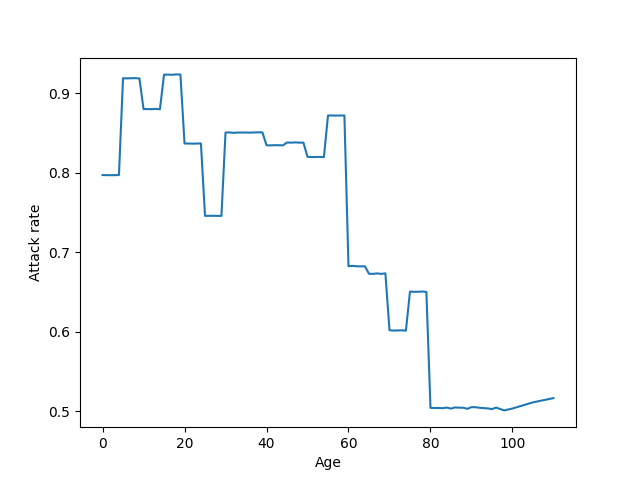
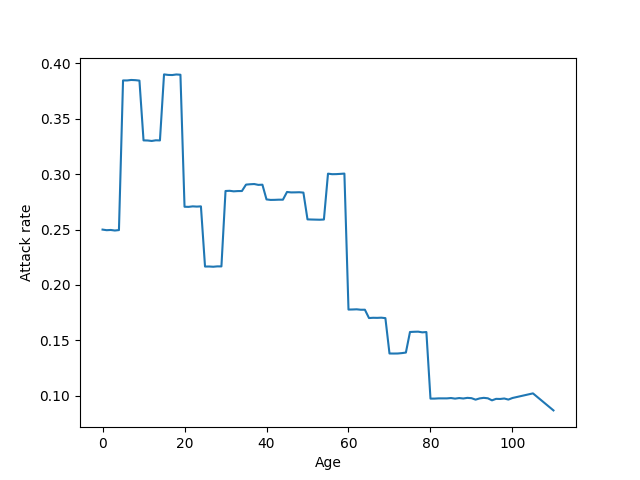
Move and adjust mthematical modeling tutorial

diff --git a/tutorials/mathematical-modeling/code/mathematical_modeling.py b/tutorials/mathematical-modeling/code/mathematical_modeling.py
@@ -1,0 +1,155 @@
+import pandas as pd
+import numpy as np
+import matplotlib.pyplot as plt
+
+
+# ============================
+# Loading the necessary data
+# ============================
+# --- Population distribution by age
+age_structure_fpath = "data/example_age_structure.csv"
+age_distribution_df = pd.read_csv(age_structure_fpath, index_col="age")
+
+# --- Contact matrix in age groups
+contact_matrix_fpath = "data/example_contact_matrix.csv"
+contact_matrix_df = pd.read_csv(
+        contact_matrix_fpath,
+        header=0, index_col=0,
+)
+
+# # Uncomment this line if the matrix has respondent age as column index instead of row index.
+# contact_matrix_df = contact_matrix_df.T
+
+# --- Age groups defined as first age in each group. Must match the contact matrix.
+age_groups = np.array([0, 5, 10, 15, 20, 25, 30, 35, 40, 45, 50, 55, 60, 65, 70, 75, 80])
+
+
+# --- Aggregate the population distribution from individual ages into age groups
+# Convert the age index into a column for binning
+df = age_distribution_df.reset_index()
+
+# Prepare the bins and labels
+bins = list(age_groups) + [np.inf]  # include the final group as open-ended
+labels = [f"{age_groups[i]}-{age_groups[i+1]-1}" for i in range(len(age_groups)-1)]
+labels.append(f"{age_groups[-1]}+")  # last group is open-ended
+
+# (1.) Assign group labels to each row
+df["age_group_label"] = pd.cut(df["age"], bins=bins, right=False, labels=labels)
+
+# Create a variable with the age group index for each age in the distribution
+positions = np.searchsorted(age_groups, df["age"], side='right') - 1
+positions = np.clip(positions, 0, len(age_groups) - 1)
+df["age_group_index"] = positions
+
+# (2.) Aggregate by age group
+agg_df = df.groupby("age_group_label", observed=False).agg(
+    **{"n_indiv": ("n_indiv", "sum")}
+)
+
+# Recompute the distribution as normalized counts
+agg_df["distribution"] = agg_df["n_indiv"] / agg_df["n_indiv"].sum()
+agg_df["age_min"] = age_groups  # Add the column with the lower bound of each age group
+
+# Update the distribution df so it contains age group information
+age_distribution_df = df.set_index("age")
+age_groups_distribution_df = agg_df
+
+
+# ====================
+# Model Initialization
+# ====================
+
+# Parameters
+dt = 1.0  # Length of the time step, in days
+beta = 0.050  # Per-contact transmission risk
+gamma = 0.333  # Rate of removal from the infectious compartment
+n_steps = 365  # Number of steps of the model
+initial_infec_fraction = 1.E-5  # Fraction to start as infectious
+initial_infec_age = 45  # Age of initial infections
+total_pop = age_distribution_df["n_indiv"].sum()  # Total number of individuals
+num_ages = age_distribution_df.shape[0]  # Number of ages accounted in the distribution
+
+# Etc
+cmat = contact_matrix_df.to_numpy()  # For use with other numpy arrays
+age_to_group = age_distribution_df["age_group_index"].to_numpy()  # Array to convert from age to age group index
+n_indiv_array = age_distribution_df["n_indiv"].to_numpy()  # Population distribution as a numpy arrray
+n_indiv_grp_array = age_groups_distribution_df["n_indiv"].to_numpy()  # Population distribution as a numpy arrray
+
+# --- Define status structures
+S = np.zeros((n_steps + 1, num_ages), dtype=int)
+I = np.zeros((n_steps + 1, num_ages), dtype=int)
+R = np.zeros((n_steps + 1, num_ages), dtype=int)
+incidence = np.zeros((n_steps + 1, num_ages), dtype=int)
+
+# --- Setup a random number generator
+seed = 42
+#seed = seed + i_sim  # If running a loop of simulations, uncomment this to change the seed every iteration
+rng = np.random.default_rng(seed)
+
+# --- Initialize the model statuses
+S[0] = n_indiv_array
+initial_infec_num = int(round(total_pop * initial_infec_fraction))
+I[0, initial_infec_age] = initial_infec_num
+S[0, initial_infec_age] -= initial_infec_num
+
+
+# ================
+# Model simulation
+# ================
+
+for i_step in range(n_steps):
+    # Force of infection (p_inf) for each age group
+    prevalence = np.bincount(age_to_group, weights=I[i_step]) / n_indiv_grp_array  # Fraction of infectious by age group
+    lambda_t = beta * (cmat @ prevalence)  # By age group. Implements the formula above.
+    p_inf_grp = np.clip(lambda_t * dt, 0, 1)
+    p_inf = p_inf_grp[age_to_group]  # Broadcast back to ages
+
+    # New infections: Binomial(S, p_inf Δt)
+    new_infections = rng.binomial(S[i_step], p_inf)
+    incidence[i_step] = new_infections
+
+    # New removals: Binomial(I, γ Δt)
+    p_rem = np.clip(gamma * dt, 0, 1)
+    new_removals = rng.binomial(I[i_step], p_rem)
+
+    # Update compartments for the next time step
+    S[i_step + 1] = S[i_step] - new_infections
+    I[i_step + 1] = I[i_step] + new_infections - new_removals
+    R[i_step + 1] = R[i_step] + new_removals
+
+    # Apply stop condition
+    if I[i_step + 1].sum() == 0:
+        # Fill remaining
+        S[i_step + 2:] = S[i_step + 1]
+        I[i_step + 2:] = I[i_step + 1]
+        R[i_step + 2:] = R[i_step + 1]
+        break
+
+
+# =================================
+# Post-processing and visualization
+# =================================
+
+# --- Plot incidence over time
+overall_incidence = incidence.sum(axis=1)  # Infection incidence over time for all ages
+attack_rate_array = R[-1] / n_indiv_array  # Infected fraction by age. We can use R here because immunity does not wane.
+avg_attack_rate = R[-1].sum() / total_pop  # Fraction of the entire population that was infected at some point.
+
+fig, ax = plt.subplots()
+
+t_array = dt * np.arange(overall_incidence.shape[0])  # Create array of time
+ax.plot(t_array, overall_incidence / total_pop)
+ax.set_xlabel("Time (days)")
+ax.set_ylabel("Normalized Infection Incidence")
+
+fig.show()
+
+# --- Plot attack rate by age
+fig, ax = plt.subplots()
+
+ax.plot(age_distribution_df.index, attack_rate_array)
+ax.set_xlabel("Age")
+ax.set_ylabel("Attack rate")
+
+fig.show()
+plt.show()

diff --git a/tutorials/mathematical-modeling/4_Compartmental_modeling_with_contact_matrices.md b/tutorials/mathematical-modeling/4_Compartmental_modeling_with_contact_matrices.md
@@ -1,6 +1,6 @@
 # Using contact matrices for compartmental epidemiological modeling
 
-In this tutorial, we will explore how to use the age-specific contact matrices estimated using contact patterns data ([Tutorial 2](../tutorials/2_Constructing_contact_matrices.md)) to simulate an epidemic, using a compartmental transmission model formulation. We illustrate this using a simple *Susceptible Infectious Removed* (SIR) model.
+In this tutorial, we will explore how to use the age-specific contact matrices estimated using contact patterns data to simulate an epidemic, using a compartmental transmission model formulation. We illustrate this using a simple *Susceptible Infectious Removed* (SIR) model.
 
 
 ## Requirements
@@ -35,7 +35,7 @@ For simple transmission models, we need at least two data elements: a population
 Here, we will assume that we have a distribution with one-year resolution, 
 meaning that we know the number of individuals with 0 years old, 1 years old, 2 years old, and so on until the last age considered, for example, 99+ years or older. 
 Such population distribution can be represented as a csv file like this 
-(full example [here](./compartmental_epimodel/data/age_distributions/singleyr-age-dist.csv)):
+(full example [here](./data/example_age_structure.csv)):
 
 ```csv
 "age","n_indiv"
@@ -50,7 +50,7 @@ Such population distribution can be represented as a csv file like this
 This file can be loaded in python as a pandas dataframe:
 
 ```python
-age_structure_fpath = "example_age_structure.csv"
+age_structure_fpath = "data/example_age_structure.csv"
 age_distribution_df = pd.read_csv(age_structure_fpath, index_col="age")
 ```
 
@@ -60,7 +60,7 @@ Where we use the `age` colum for indexing rows of the data frame, and the `n_ind
 ### Loading a contact matrix
 
 A contact matrix between age groups can be stored as a csv file and look like this 
-(full example [here](./compartmental_epimodel/data/survey_epistorm/ageby5_80.csv)):
+(full example [here](./data/example_contact_matrix.csv)):
 
 ```csv
 "respondent","[0,5)","[5,10)","[10,15)","[15,20)","[20,25)","[25,30)","[30,35)","[35,40)","[40,45)","[45,50)","[50,55)","[55,60)","[60,65)","[65,70)","[70,75)","[75,80)","[80,120)"
@@ -73,7 +73,7 @@ A contact matrix between age groups can be stored as a csv file and look like th
 This file can be loaded as a square-shaped pandas data frame:
 
 ```python
-contact_matrix_fpath = "example_contact_matrix.csv"
+contact_matrix_fpath = "data/example_contact_matrix.csv"
 contact_matrix_df = pd.read_csv(
         contact_matrix_fpath,
         header=0, index_col=0,
@@ -152,7 +152,7 @@ Before anything, let's define some model and simulation parameters, along with s
 ```python
 # Parameters
 dt = 1.0  # Length of the time step, in days
-beta = 0.090  # Per-contact transmission risk
+beta = 0.050  # Per-contact transmission risk
 gamma = 0.333  # Rate of removal from the infectious compartment
 n_steps = 800  # Number of steps of the model
 initial_infec_fraction = 1.E-5  # Fraction to start as infectious
@@ -283,7 +283,7 @@ attack_rate_array = R[-1] / n_indiv_array  # Infected fraction by age. We can us
 avg_attack_rate = R[-1].sum() / total_pop  # Fraction of the entire population that was infected at some point.
 ```
 
-We can use a `matpltlib` plot to visualize the incidence over time, normalized by the total population:
+We can use a `matplotlib` plot to visualize the incidence over time, normalized by the total population:
 
 ```python
 fig, ax = plt.subplots()
@@ -294,11 +294,12 @@ ax.set_xlabel("Time (days)")
 ax.set_ylabel("Normalized Infection Incidence")
 
 fig.show()
+plt.show()
 ```
 
 ![](figures/fig_compartmental_incidence.png)
 
-We can also plot the attack rate by for each age:
+We can also plot the attack rate for each age:
 
 ```python
 fig, ax = plt.subplots()
@@ -308,10 +309,15 @@ ax.set_xlabel("Age")
 ax.set_ylabel("Attack rate")
 
 fig.show()
+plt.show()
 ```
 
 ![](figures/fig_compartmental_atk_rate.png)
 
 ## Full code
 
-You can check the full code for this tutorial here: [compartmental_modeling_contact_matrices.py](./compartmental_epimodel/compartmental_modeling_contact_matrices.py) 
+You can check the full code for this tutorial here: [code/mathematical_modeling.py](./code/mathematical_modeling.py). If you have a configured python environment, you can run it from a terminal opened in the same directory of this file (`mathematical-modeling/`) by running:
+
+```bash
+python code/mathematical_modeling.py
+```
